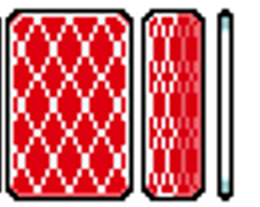
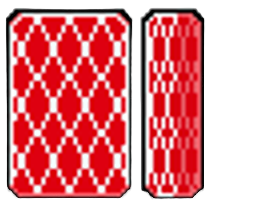
cleaned backgrond of cards, resizing, removed white square normalizations

diff --git a/src/casinogames/memorymatch/MemoryMatchPrint.py b/src/casinogames/memorymatch/MemoryMatchPrint.py
@@ -7,6 +7,12 @@ from casinogames.core.BoardRenderer import render_board
 faces = load_memory_faces()
 backs = load_memory_backs()
 
+def _normalize_sprite(sprite: Image.Image, game: MemoryMatch) -> Image.Image:
+    """Ensure any face/back/flip is resized to the game’s card dimensions."""
+    if sprite.size != (game.CARD_W, game.CARD_H):
+        sprite = sprite.resize((game.CARD_W, game.CARD_H), Image.NEAREST)
+    return sprite
+
 def render_board_image(game, overrides=None) -> io.BytesIO:
     # Render the current board as a single PNG image
     overrides = overrides or {}
@@ -14,16 +20,17 @@ def render_board_image(game, overrides=None) -> io.BytesIO:
     def sprite_resolver(game, idx):
         symbol, flipped, matched = game.board[idx]
         if idx in overrides:
-            return overrides[idx]
+            sprite = overrides[idx]
         elif matched or flipped:
-            return faces.get_face(symbol)
+            sprite = faces.get_face(symbol)
         else:
-            return backs.get("back_full")
+            sprite = backs.get("back_full")
+        return _normalize_sprite(sprite, game)   # ✅ resize here
 
     return render_board(game, sprite_resolver)
 
 def make_board_flip_gif(game, pos: int, symbol: str, duration=120) -> io.BytesIO:
-    #Build a GIF of the whole board with one slot flipping
+    # Build a GIF of the whole board with one slot flipping
 
     # Frames of the flip: back, edge, half, face
     sequence = [
@@ -41,17 +48,17 @@ def make_board_flip_gif(game, pos: int, symbol: str, duration=120) -> io.BytesIO
 
     frames = []
     for frame in sequence:
-        frame = frame.convert("RGBA")
+        frame = _normalize_sprite(frame.convert("RGBA"), game)
 
-        # Normalize frame onto white canvas same size as card
-        norm_frame = Image.new("RGBA", (game.CARD_W, game.CARD_H), (255, 255, 255, 255))
-        x_off = (game.CARD_W - frame.width) // 2
-        y_off = (game.CARD_H - frame.height) // 2
-        norm_frame.paste(frame, (x_off, y_off), mask=frame)
-
-        # Compose on board
+        # Start fresh from base
         board_img = base_board.copy()
-        board_img.paste(norm_frame, (slot_x, slot_y), mask=norm_frame)
+
+        # Blank the slot area (green background) so old images don’t overlap
+        blank = Image.new("RGBA", (slot_w, slot_h), (0, 128, 0, 255))
+        board_img.paste(blank, (slot_x, slot_y))
+
+        # Paste the current frame
+        board_img.paste(frame, (slot_x, slot_y), mask=frame)
         frames.append(board_img)
 
     out = io.BytesIO()
@@ -62,7 +69,7 @@ def make_board_flip_gif(game, pos: int, symbol: str, duration=120) -> io.BytesIO
         append_images=frames[1:],
         duration=duration,
         loop=0,
-        disposal=2,
+        disposal=2,   
         optimize=False,
     )
     out.seek(0)
@@ -91,16 +98,8 @@ def make_board_reverse_flip_gif(game, positions: list[int], symbols: list[str], 
     for frame_idx in range(len(sequences[0])):  # all sequences have same length
         step = base_board.copy()
         for seq, (slot_x, slot_y, slot_w, slot_h) in zip(sequences, rects):
-            raw = seq[frame_idx].convert("RGBA")
-
-            # normalize to CARD_W x CARD_H with white background
-            norm_frame = Image.new("RGBA", (game.CARD_W, game.CARD_H), (255, 255, 255, 255))
-            x_off = (game.CARD_W - raw.width) // 2
-            y_off = (game.CARD_H - raw.height) // 2
-            norm_frame.paste(raw, (x_off, y_off), mask=raw)
-
-            # paste onto board
-            step.paste(norm_frame, (slot_x, slot_y), mask=norm_frame)
+            raw = _normalize_sprite(seq[frame_idx].convert("RGBA"), game)
+            step.paste(raw, (slot_x, slot_y), mask=raw)
         frames.append(step)
 
     W = max(f.width for f in frames)

diff --git a/src/casinogames/assetloader.py b/src/casinogames/assetloader.py
@@ -42,60 +42,57 @@ class MemoryIcons:
             raise FileNotFoundError(f"Memory sheet not found: {path}")
         self.sheet = Image.open(path).convert("RGBA")
 
-        # Heights
-        self.card_height = 193
+       
+        # Columns (x):
+        self.x0 = 7
+        self.full_w = 231  
+        self.flip_w = 121  
+        self.pair_stride = self.full_w + self.flip_w  
 
-        # Widths
-        self.full_width = 133
-        self.flip_width = 67
+        # Rows (y): 
+        self.row_tops = [0, 342, 690]
+        self.row_heights = [342, 690 - 342, 1037 - 690]
 
-        #  mapping of faces to grid positions (col,row)
-        # col=0 always full, col=1 flip, col=2 full, col=3 flip
+        # mapping of faces to grid positions (col,row)
+        # even cols are full, odd cols are flip
         self.faces = {
-            "mario":    (0, 0),  
-            "mushroom": (2, 0),  
-            "goomba":   (4, 0),  
+            "mario":    (0, 0),
+            "mushroom": (2, 0),
+            "goomba":   (4, 0),
 
-            "luigi":    (0, 1),  
-            "flower":   (2, 1), 
-            "star":     (4, 1),  
+            "luigi":    (0, 1),
+            "flower":   (2, 1),
+            "star":     (4, 1),
 
-            "bowser":   (0, 2),  
-            "yoshi":    (2, 2),  
-            "cloud":    (4, 2), 
+            "bowser":   (0, 2),
+            "yoshi":    (2, 2),
+            "cloud":    (4, 2),
         }
 
     def _col_x(self, col_index: int) -> int:
-        # Handles alternating widths (full=133, flip=67)
-        if col_index % 2 == 0:  # full card
-            return (col_index // 2) * (self.full_width + self.flip_width)
-        else:  # flip
-            return ((col_index // 2) * (self.full_width + self.flip_width)) + self.full_width
+        # even col: full 
+        # odd col: flip immediately after the full
+        base = self.x0 + (col_index // 2) * self.pair_stride
+        return base + (self.full_w if (col_index % 2 == 1) else 0)
 
-    def _crop(self, col: int, row: int, is_full: bool):
-        y1 = row * self.card_height
-        y2 = y1 + self.card_height
+    def _crop(self, col: int, row: int, is_full: bool) -> Image.Image:
+        y1 = self.row_tops[row]
+        y2 = y1 + self.row_heights[row]
         x1 = self._col_x(col)
-        if is_full:
-            x2 = x1 + self.full_width
-        else:
-            x2 = x1 + self.flip_width
+        x2 = x1 + (self.full_w if is_full else self.flip_w)
         return self.sheet.crop((x1, y1, x2, y2))
 
-    def get_face(self, name: str):
-        #Return the full card face given name
+    def get_face(self, name: str) -> Image.Image:
         if name not in self.faces:
             raise KeyError(f"Unknown memory face: {name}")
         col, row = self.faces[name]
         return self._crop(col, row, is_full=True)
 
-    def get_flip(self, name: str):
-        #Return the flip animation frame given name
+    def get_flip(self, name: str) -> Image.Image:
         if name not in self.faces:
             raise KeyError(f"Unknown memory face: {name}")
         col, row = self.faces[name]
-        flip_col = col + 1  # flipped is always immediately next to the face
-        return self._crop(flip_col, row, is_full=False)
+        return self._crop(col + 1, row, is_full=False)  # flip is right next to full
     
 class MemoryBacks:
     def __init__(self):
